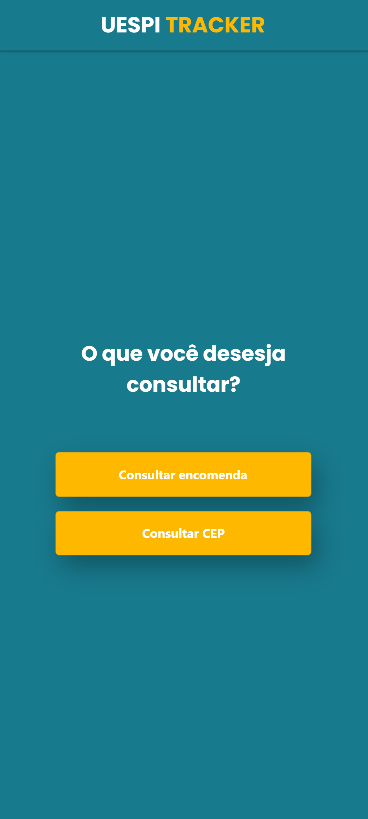
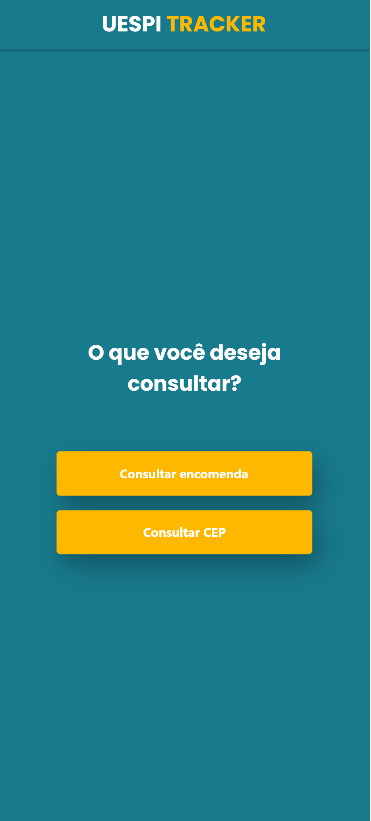
Corrindo erros na homepage

diff --git a/prog-flutter/terceira_avaliacao_desafio_api/lib/Screens/HomePage.dart b/prog-flutter/terceira_avaliacao_desafio_api/lib/Screens/HomePage.dart
@@ -35,7 +35,7 @@ class _HomePageState extends State<HomePage> {
               child: Padding(
                 padding: const EdgeInsets.all(30.0),
                 child: Text(
-                  'O que você desesja consultar?',
+                  'O que você deseja consultar?',
                   textAlign: TextAlign.center,
                   style: TextStyle(
                     color: kBranco,
